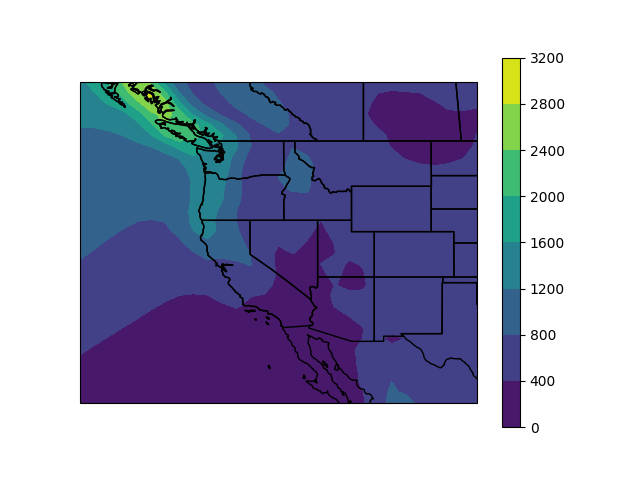
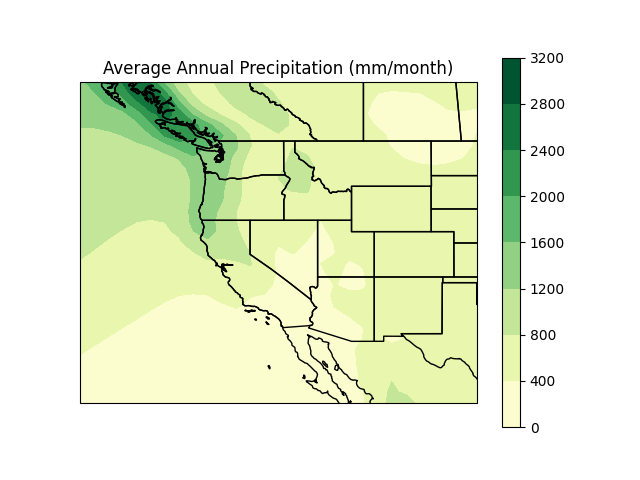
minor changes to png

diff --git a/Precipitation Scripts/precip_monthlyAvgs.py b/Precipitation Scripts/precip_monthlyAvgs.py
@@ -23,21 +23,18 @@ def pcp_monthlyAvg(filepath):
     # Average for each month's precip (e.g. all Januarys)
     mem_sum = pcp.mean(dim = ['member', 'time'])
     avg = mem_sum.sum(dim = 'month')
-    #avg = mem_sum.mean(dim = 'month')
-
-    #annual_sum = pcp.sum(dim = 'member').groupby('time.month')
-    #annual_avg = annual_sum.mean(dim = 'month')
     return avg
 
 test = pcp_monthlyAvg(filepath = '/Users/dfencekey/Desktop/Coding/Capstone/Capstone-PDO-Precip-Data-Analysis/Data/PRECTmem*.nc')
 
-# tot = test.where(test.month == 8, drop = True)
-# tot = jun.squeeze(('month'), drop = True)
-
 X, Y = np.meshgrid(test.lon, test.lat)
 fig, ax = plt.subplots(nrows = 1, ncols = 1, subplot_kw = {'projection': ccrs.PlateCarree()})
 ax.coastlines()
-my_ax = ax.contourf(X, Y, test, transform = ccrs.PlateCarree())
+
+my_ax = ax.contourf(X, Y, test, transform = ccrs.PlateCarree(), cmap = 'YlGn')
 ax.add_feature(cfeature.STATES, zorder=1, linewidth=1, edgecolor='k')
+ax.set_title('Average Annual Precipitation (mm/month)')
+
 fig.colorbar(my_ax, ax = ax)
+#plt.show()
 plt.savefig('avgAnnual_allMembers.png')
